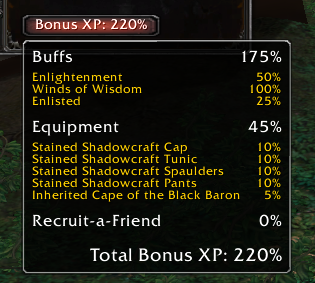
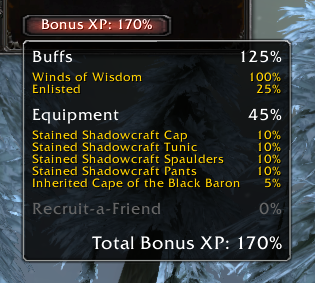
Updated screenshots to show the 1.2.0 styling.

diff --git a/README.md b/README.md
@@ -1,6 +1,4 @@
-# Bonus XP Add-On
-
-[![Build Status](https://travis-ci.com/peterwooley/bonusxp.svg?branch=master)](https://travis-ci.com/peterwooley/bonusxp)
+# Bonus XP Add-On [![Build Status](https://travis-ci.com/peterwooley/bonusxp.svg?branch=master)](https://travis-ci.com/peterwooley/bonusxp)
 
 How much Bonus XP are you earning? Do you have Heirloom gear? Are you using Recruit-a-Friend? Is there a Bonus XP event taking place?
 
@@ -10,6 +8,7 @@ Open the Character screen (C) and find your Bonus XP percentage at the bottom of
 
 <img src="screenshots/default.png" alt="Bonus XP Add-On Tooltip">
 <img src="screenshots/raf.png" alt="Bonus XP Add-On with Recruit-a-Friend active">
+<img src="screenshots/inactive.png" alt="Bonus XP Add-On with inactive section headers">
 
 ## Thanks
 Thanks to the folks who help test:
